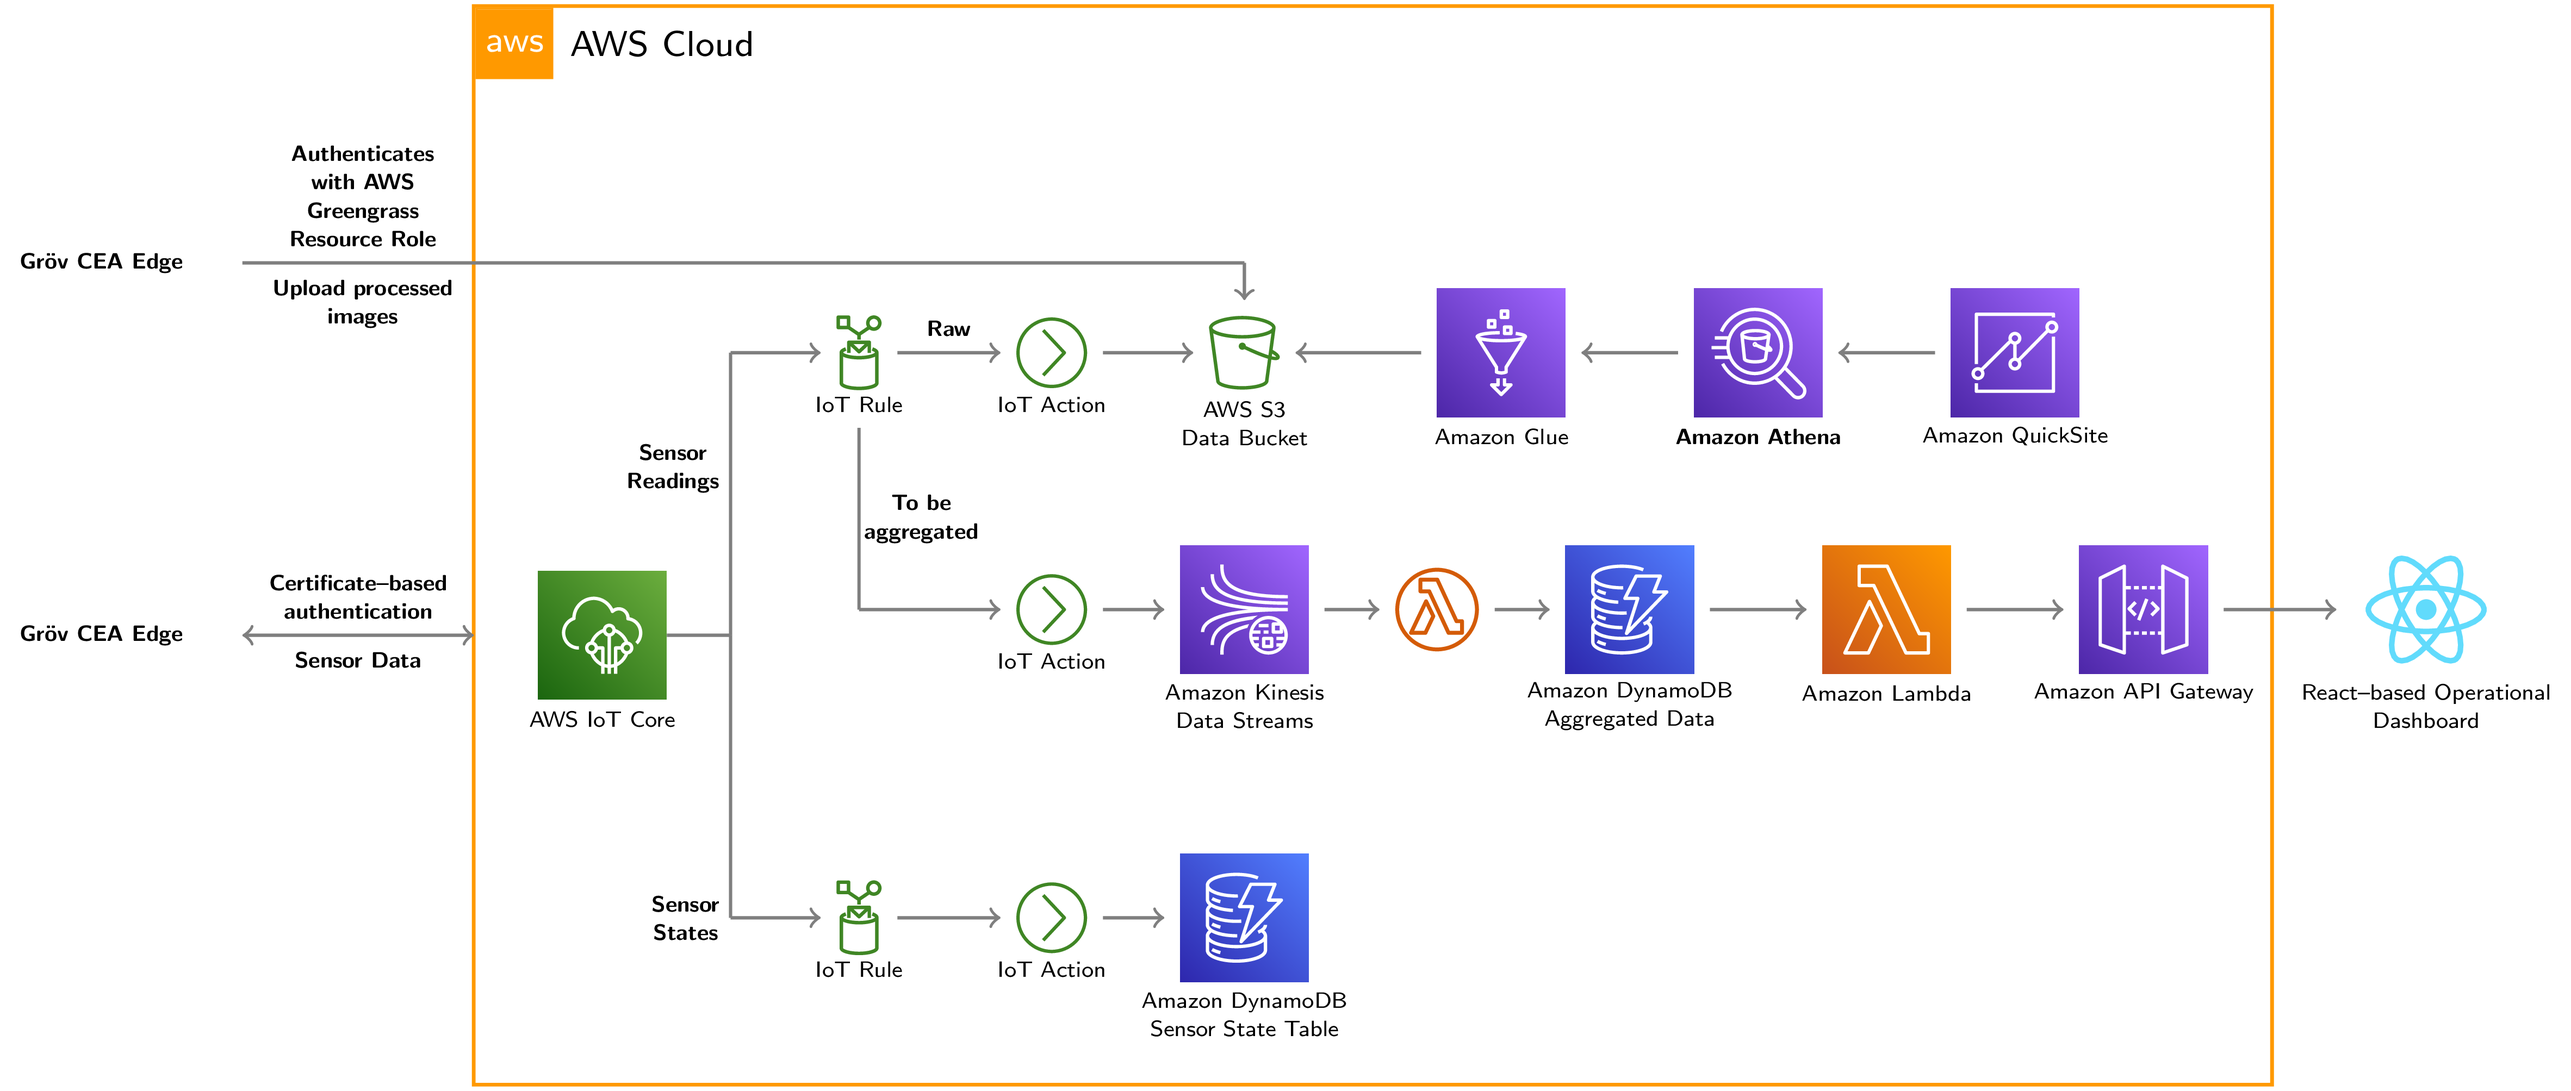
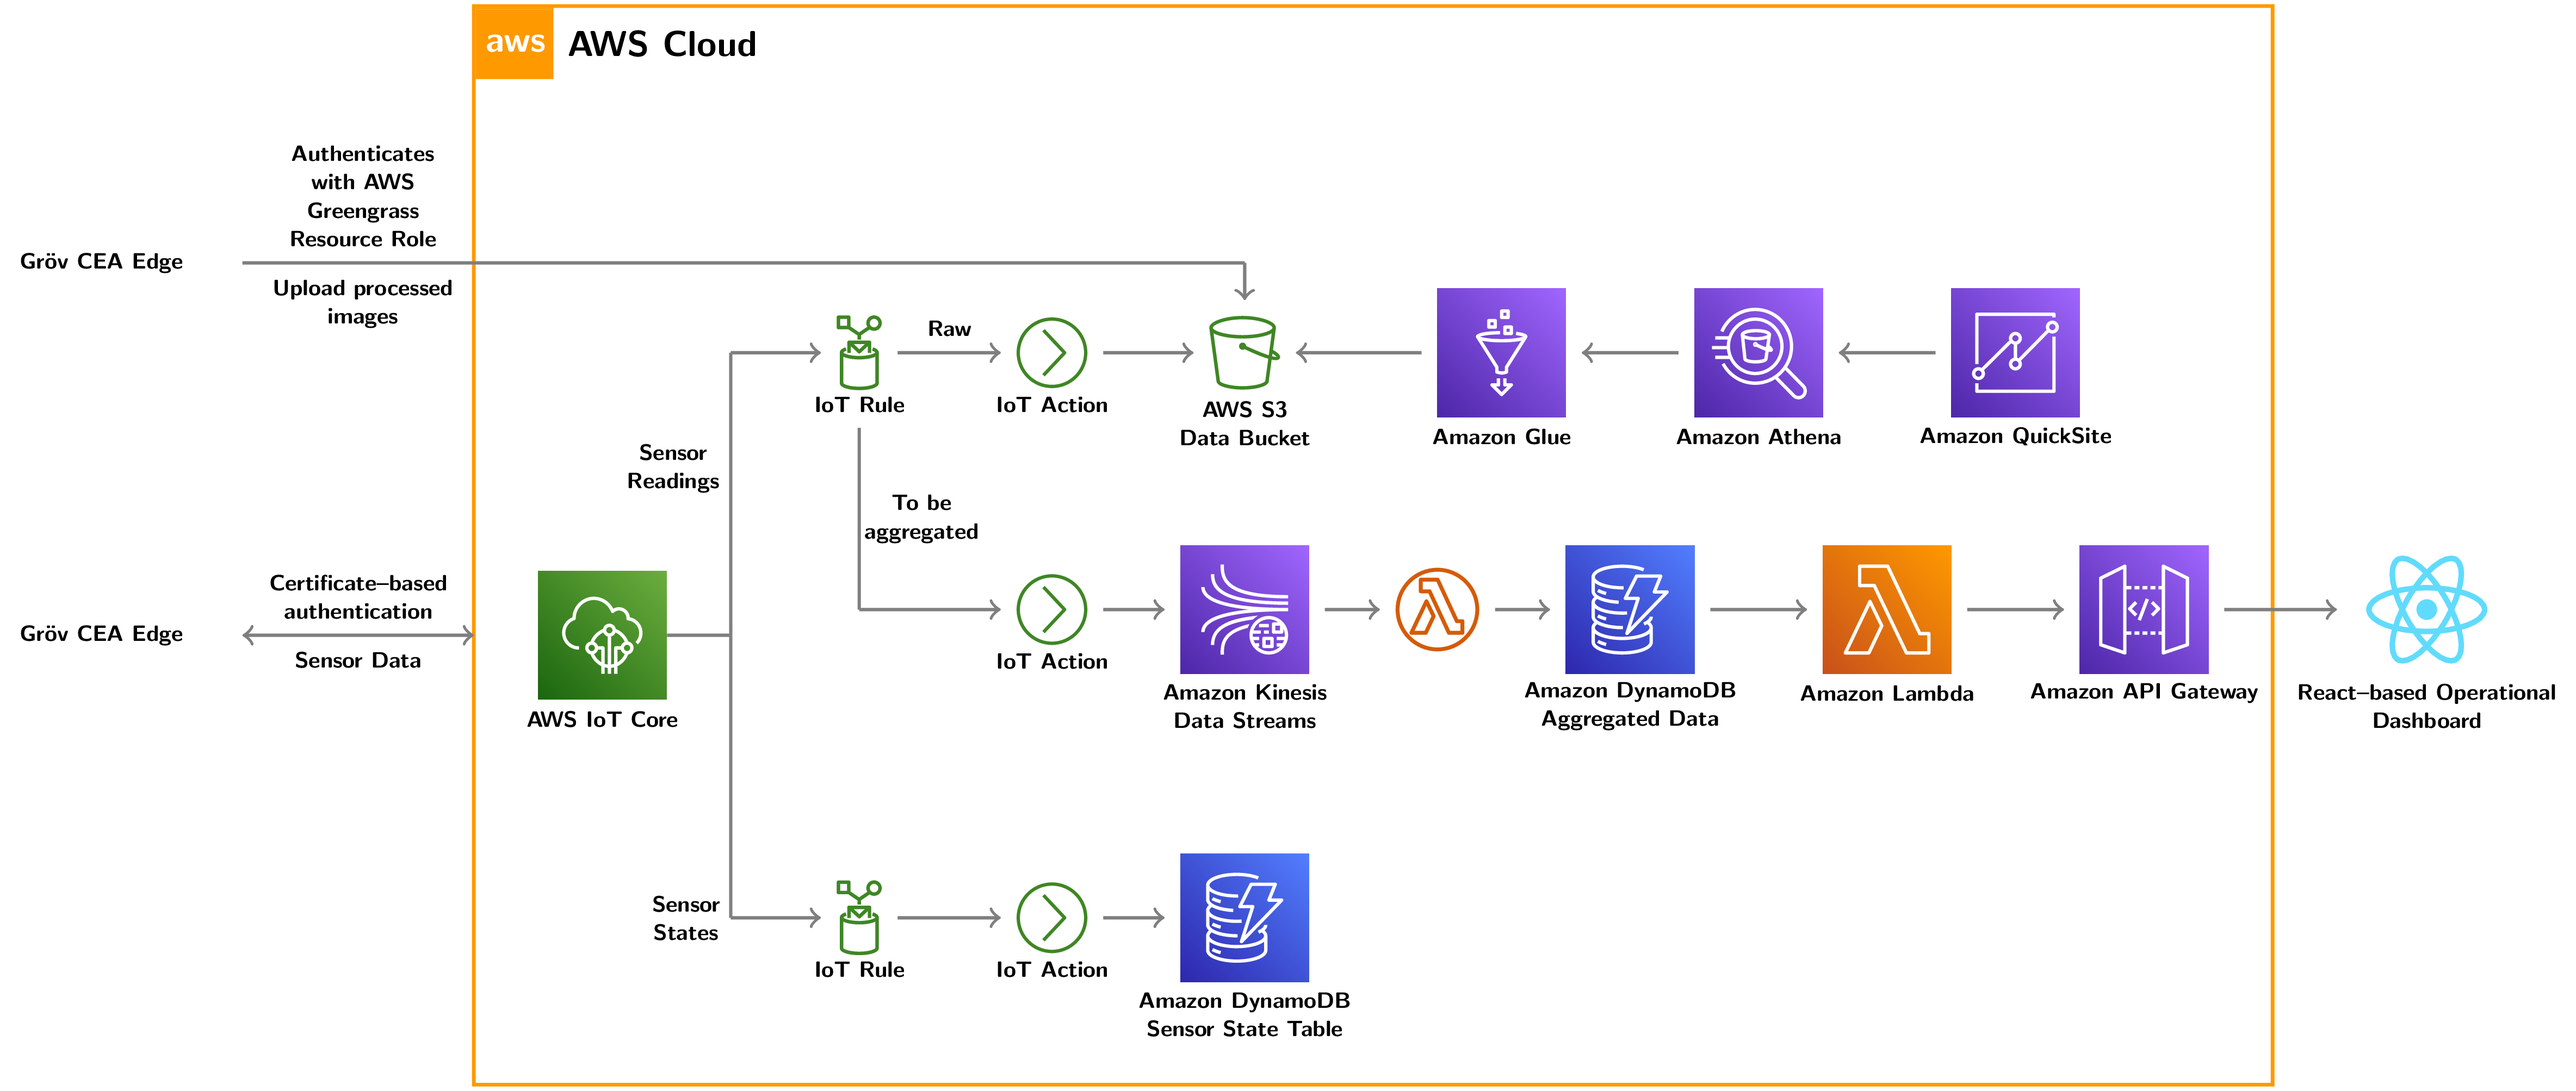
Added bold font style to Data example

diff --git a/examples/Data-pipeline-Grov-Technologies.tex b/examples/Data-pipeline-Grov-Technologies.tex
@@ -43,83 +43,83 @@
       }
     }
   ]
-
+  \tikzstyle{fontbf} = [font=\bfseries]
   \draw [draw=awsOrange,thick] (-1,-3.5) rectangle (13,4.9);
 
   %  \node(aws)[fill=black, text=white,rectangle,inner sep=2pt,draw,] at  (-.6829,4.609){\parbox[c][.40cm]{.45cm}{\footnotesize aws\ }};
-    \node(aws)[fill=awsOrange, draw=awsOrange,text=white,rectangle,inner sep=2pt,draw,] at  (-.6829,4.609){\parbox[c][.40cm]{.45cm}{\footnotesize aws\ }};
-  \node (awsCloud) [right of=aws,xshift=1.5mm] {\footnotesize AWS Cloud};
+    \node(aws)[fontbf, fill=awsOrange, draw=awsOrange,text=white,rectangle,inner sep=2pt,draw,] at  (-.6829,4.609){\parbox[c][.40cm]{.45cm}{\footnotesize aws\ }};
+  \node (awsCloud) [fontbf, right of=aws,xshift=1.5mm] {\footnotesize AWS Cloud};
 
   \node (core) {\AIoTCore{1cm}};
 
   \node (preCore)[shape=coordinate,left of=core,align=center] {};
   \node (sensorData)[shape=coordinate,left of=preCore,align=center,xshift=-8mm] {};
 
-  \node (botEdge)[black,left of=sensorData,align=center, xshift=-1mm] {\tiny \textbf{Gr\"{o}v CEA Edge}};
-  \node (coreLabel)[below of=core,align=center,yshift=3.5mm] {\tiny AWS IoT Core};
+  \node (botEdge)[fontbf, black,left of=sensorData,align=center, xshift=-1mm] {\tiny Gr\"{o}v CEA Edge};
+  \node (coreLabel)[fontbf, below of=core,align=center,yshift=3.5mm] {\tiny AWS IoT Core};
   \node (split) [shape=coordinate,right of= core] {};
   \node (topAngle) [shape=coordinate,above of = split,yshift=1.2cm] {};
   \node (botAngle) [shape=coordinate,below of = split,yshift=-1.2cm] {};
 
 
   \node (topIotRule)[right of= topAngle]{\RIoTRule{.35cm}};
-  \node (topIotRuleLabel)[below of=topIotRule,align=center,yshift=6mm] {\tiny IoT Rule};
+  \node (topIotRuleLabel)[fontbf, below of=topIotRule,align=center,yshift=6mm] {\tiny IoT Rule};
   \node (botIotRule)[right of= botAngle]{\RIoTRule{.35cm}};
-  \node (botIotRuleLabel)[below of=botIotRule,align=center,yshift=6mm] {\tiny IoT Rule};
+  \node (botIotRuleLabel)[fontbf, below of=botIotRule,align=center,yshift=6mm] {\tiny IoT Rule};
   \node (topIotAction)[right of= topIotRule,xshift=5mm]{\RIoTAction{.55cm}};
-  \node (topIotActionLabel)[below of= topIotAction,align=center,yshift=6mm]{\tiny IoT Action};
+  \node (topIotActionLabel)[fontbf, below of= topIotAction,align=center,yshift=6mm]{\tiny IoT Action};
   \node (botIotAction)[right of= botIotRule,xshift=5mm]{\RIoTAction{.55cm}};
-  \node (botIotActionLabel)[below of= botIotAction,align=center,yshift=6mm]{\tiny IoT Action};
-  \node (midIotAction)[below of= topIotAction,yshift=-1cm]{\RIoTAction{.55cm}};
-  \node (midIotActionLabel)[below of= midIotAction,align=center,yshift=6mm]{\tiny IoT Action};
+  \node (botIotActionLabel)[fontbf, below of= botIotAction,align=center,yshift=6mm]{\tiny IoT Action};
+  \node (midIotAction)[fontbf, below of= topIotAction,yshift=-1cm]{\RIoTAction{.55cm}};
+  \node (midIotActionLabel)[fontbf, below of= midIotAction,align=center,yshift=6mm]{\tiny IoT Action};
   \node (midAngle) [shape=coordinate,below of = topIotRule,yshift=-1cm] {};
 
   \node (kinesis) [right of = midIotAction,xshift=.5cm] {\AKinDataStreams{1cm}};
-  \node (kinesisLabel)[below of= kinesis,align=center,yshift=2.5mm]{\tiny Amazon Kinesis \\[-2mm] \tiny Data Streams};
+  \node (kinesisLabel)[fontbf, below of= kinesis,align=center,yshift=2.5mm]{\tiny Amazon Kinesis \\[-2mm] \tiny Data Streams};
 
   \node (sensorDynamo)[right of= botIotAction,xshift=.5cm]{\ADDB{1cm}};
-  \node (sensorDynamoLabel)[below of= sensorDynamo,align=center,yshift=2.5mm]{\tiny Amazon DynamoDB \\[-2mm] \tiny Sensor State Table};
+  \node (sensorDynamoLabel)[fontbf, below of= sensorDynamo,align=center,yshift=2.5mm]{\tiny Amazon DynamoDB \\[-2mm] \tiny Sensor State Table};
 
   \node (s3)[right of= topIotAction,xshift=.5cm]{\RSThreeBkt{.55cm}};
-  \node (s3Label)[below of= s3,align=center,yshift=4.5mm]{\tiny AWS S3 \\[-2mm] \tiny Data Bucket};
+  \node (s3Label)[fontbf, below of= s3,align=center,yshift=4.5mm]{\tiny AWS S3 \\[-2mm] \tiny Data Bucket};
 
   \node (s3AboveAngle) [shape=coordinate,above of = s3,yshift=-3mm] {};
   \node (images) [shape=coordinate,left of = s3AboveAngle, xshift=-6.8cm] {};
-    \node (topEdge)[black,left of=images,align=center, xshift=-1mm] {\tiny \textbf{Gr\"{o}v CEA Edge}};
+    \node (topEdge)[fontbf, black,left of=images,align=center, xshift=-1mm] {\tiny \textbf{Gr\"{o}v CEA Edge}};
 
   \node (glue)[right of= s3,xshift=1cm]{\AGlue{1cm}};
-  \node (glueLabel)[below of= glue,align=center,yshift=3.5mm]{\tiny Amazon Glue};
+  \node (glueLabel)[fontbf, below of= glue,align=center,yshift=3.5mm]{\tiny Amazon Glue};
 
   \node (athena)[right of= glue,xshift=1cm]{\AAthena{1cm}};
-  \node (athenaLabel)[below of= athena,align=center,yshift=3.5mm]{\tiny \textbf{Amazon Athena}};
+  \node (athenaLabel)[fontbf, below of= athena,align=center,yshift=3.5mm]{\tiny Amazon Athena};
 
   \node (quicksight)[right of= athena,xshift=1cm]{\AQuickSight{1cm}};
-  \node (quicksightLabel)[below of= quicksight,align=center,yshift=3.5mm]{\tiny Amazon QuickSite};
+  \node (quicksightLabel)[fontbf, below of= quicksight,align=center,yshift=3.5mm]{\tiny Amazon QuickSite};
   
   \node (lambdaFunction)[right of= kinesis,xshift=.5cm]{\RLambdaLambdaFunc{.65cm}};
   \node (aggrDynamo)[right of= lambdaFunction,xshift=.5cm]{\ADDB{1cm}};
-  \node (aggrDynamoLabel)[below of= aggrDynamo,align=center,yshift=2.5mm]{\tiny Amazon DynamoDB \\[-2mm] \tiny Aggregated Data};
+  \node (aggrDynamoLabel)[fontbf, below of= aggrDynamo,align=center,yshift=2.5mm]{\tiny Amazon DynamoDB \\[-2mm] \tiny Aggregated Data};
   \node (lambda)[right of= aggrDynamo,xshift=1cm]{\ALambda{1cm}};
-  \node (lambdaLabel)[below of= lambda,align=center,yshift=3.5mm]{\tiny Amazon Lambda};
+  \node (lambdaLabel)[fontbf, below of= lambda,align=center,yshift=3.5mm]{\tiny Amazon Lambda};
   
   \node (apiGateway)[right of= lambda, xshift=1cm]{\AAPIGateway{1cm}};
-  \node (apiGatewayLabel)[below of= apiGateway,align=center,yshift=3.5mm]{\tiny Amazon API Gateway};
+  \node (apiGatewayLabel)[fontbf, below of= apiGateway,align=center,yshift=3.5mm]{\tiny Amazon API Gateway};
 
   \node (nearReact) [shape=coordinate,right of= apiGateway, xshift=0.5cm]{};
   \node (react) [draw, atom=10mm, right of= apiGateway, xshift=1.2cm]{};
-  \node (reactLabel)[below of= react,align=center,yshift=2.5mm]{\tiny React--based Operational \\[-2mm] \tiny Dashboard};
+  \node (reactLabel)[fontbf, below of= react,align=center,yshift=2.5mm]{\tiny React--based Operational \\[-2mm] \tiny Dashboard};
   
   %%%%%%%%%%%%%%
-  \draw[lns,<->] (preCore) -- (sensorData)node[pos=.5,above,align=center, black]{\tiny \textbf{Certificate--based} \\[-2mm] \tiny \textbf{authentication}}  node[pos=.5,below, black,align=center]{\tiny \textbf{Sensor Data}};
-  \draw[lns,-]  (images) -- (s3AboveAngle)node[pos=.12,above,align=center, black]{\tiny \textbf{Authenticates} \\[-2mm] \tiny \textbf{with AWS} \\[-2mm] \tiny \textbf{Greengrass} \\[-2mm] \tiny \textbf{Resource Role}} node[pos=.12,below, black,align=center]{\tiny \textbf{Upload processed} \\[-2mm] \tiny \textbf{images}};
+  \draw[lns,<->] (preCore) -- (sensorData)node[fontbf, pos=.5,above,align=center, black]{\tiny Certificate--based \\[-2mm] \tiny authentication}  node[fontbf, pos=.5,below, black,align=center]{\tiny Sensor Data};
+  \draw[lns,-]  (images) -- (s3AboveAngle)node[fontbf, pos=.12,above,align=center, black]{\tiny Authenticates \\[-2mm] \tiny with AWS \\[-2mm] \tiny Greengrass \\[-2mm] \tiny Resource Role} node[fontbf, pos=.12,below, black,align=center]{\tiny Upload processed \\[-2mm] \tiny images};
   \draw[lns,gray]  (s3AboveAngle) -- (s3);
   
   \draw[lns,-]   ([xshift=-1.2mm]core.east) -- (split);
-  \draw[lns,-]   (split) -- (topAngle) node[black,yshift=-.9cm,xshift=-1mm,align=center,xshift=-3.5mm]{\tiny \textbf{Sensor} \\[-2mm] \tiny \textbf{Readings}};
-  \draw[lns,-]   (split) -- (botAngle) node[black,pos=1,align=center,xshift=-3.5mm]{\tiny \textbf{Sensor} \\[-2mm] \tiny \textbf{States}};
+  \draw[lns,-]   (split) -- (topAngle) node[fontbf, black,yshift=-.9cm,xshift=-1mm,align=center,xshift=-3.5mm]{\tiny Sensor \\[-2mm] \tiny Readings};
+  \draw[lns,-]   (split) -- (botAngle) node[fontbf, black,pos=1,align=center,xshift=-3.5mm]{\tiny Sensor \\[-2mm] \tiny States};
 
   \draw[lns]  (topAngle) -- (topIotRule);
-  \draw[lns]  (topIotRule) -- (topIotAction) node[black,midway,above,align=center]{\tiny \textbf{Raw}};
+  \draw[lns]  (topIotRule) -- (topIotAction) node[fontbf, black,midway,above,align=center]{\tiny Raw};
   \draw[lns]  (botAngle) -- (botIotRule) ;
   \draw[lns]  (botIotRule) -- (botIotAction);
 
@@ -131,7 +131,7 @@
   \draw[lns]  (athena) -- (glue);
   \draw[lns]  (quicksight) -- (athena);
 
-  \draw[lns,-]  (topIotRuleLabel) -- (midAngle)  node[pos=0.5, xshift=-.9mm,right,align=center, black]{\tiny \textbf{To be} \\[-2mm] \tiny \textbf{aggregated}};
+  \draw[lns,-]  (topIotRuleLabel) -- (midAngle)  node[fontbf, pos=0.5, xshift=-.9mm,right,align=center, black]{\tiny To be \\[-2mm] \tiny aggregated};
   \draw[lns]  (midAngle) -- (midIotAction);
   \draw[lns]  (midIotAction) -- (kinesis);
   \draw[lns]  (kinesis) -- (lambdaFunction);
